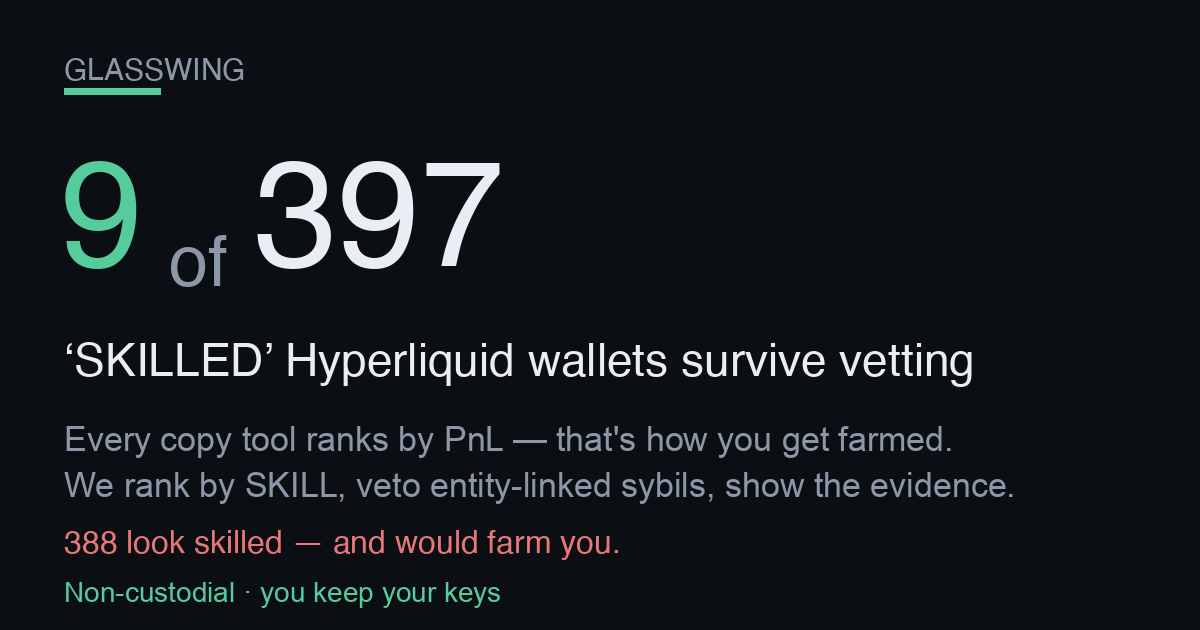
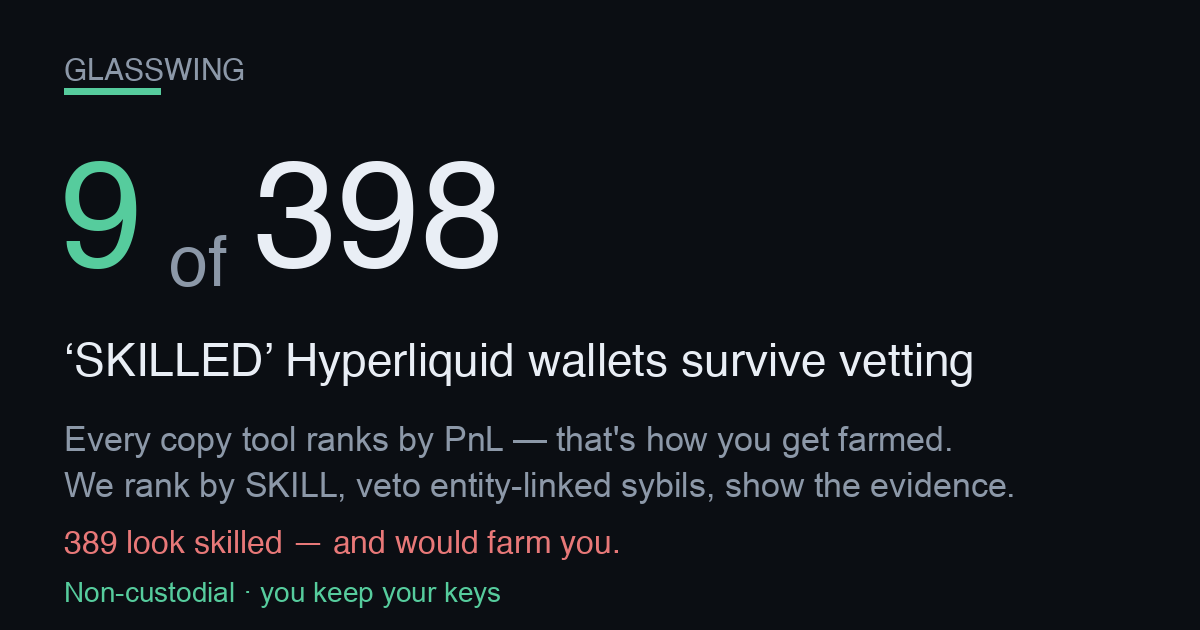
publish funnel 2026-09-14T06:58:19Z

Changed region(s): [[0.3392, 0.2413, 0.4317, 0.4524], [0.0617, 0.8444, 0.0925, 0.8746]]

diff --git a/screener.html b/screener.html
@@ -57,4 +57,4 @@ padding:11px 22px;font-size:15px;font-weight:800;border:1px solid var(--good)}
 footer{margin-top:34px;color:var(--muted);font-size:12px;line-height:1.6;
 border-top:1px solid var(--line);padding-top:16px}
 footer b{color:var(--ink)}
-</style></head><body><div class="wrap"><div class="nav"><a href="./index.html">&larr; Glasswing home</a><span class="sep">|</span><span>Edge Screener</span><span class="sep">|</span><a href="./dex.html">Copy a vetted leader</a></div><div class="hero"><h1>Hyperliquid Edge Screener</h1><div class="sub">Where&rsquo;s the carry, where a maker earns, and what&rsquo;s moving on Hyperliquid &mdash; live, computed from the public API. Bookmark it. Every number below is real and timestamped.</div><div class="stamp">Data as of <b>2026-09-14T00:52:29Z</b> &middot; rendered 2026-09-14T00:52:29Z &middot; 178 perps &middot; 104 HIP-3 (xyz) markets scanned</div></div><h2>Top funding &mdash; the carry table <span class="hint">perps ranked by annualized funding. Positive = longs pay shorts (a delta-neutral short earns it).</span></h2><div class="tblwrap"><table><thead><tr><th>Coin</th><th>Funding / hr</th><th>Annualized</th><th>Who pays</th><th>Open interest</th><th>24h volume</th></tr></thead><tbody><tr><td class="coin">HEMI</td><td>-0.0470%</td><td class="neg">-411.4%</td><td><span class="tag shorts">shorts pay</span></td><td>$1.0M</td><td>$530K</td></tr><tr><td class="coin">ACE<span class="tag thin" title="Low liquidity/OI &mdash; ADL &amp; liquidation risk; funding can flip">&#9888; thin</span></td><td>-0.0216%</td><td class="neg">-189.7%</td><td><span class="tag shorts">shorts pay</span></td><td>$498K</td><td>$319K</td></tr><tr><td class="coin">SOPH</td><td>-0.0065%</td><td class="neg">-57.3%</td><td><span class="tag shorts">shorts pay</span></td><td>$622K</td><td>$313K</td></tr><tr><td class="coin">IOTA<span class="tag thin" title="Low liquidity/OI &mdash; ADL &amp; liquidation risk; funding can flip">&#9888; thin</span></td><td>-0.0059%</td><td class="neg">-51.7%</td><td><span class="tag shorts">shorts pay</span></td><td>$722K</td><td>$135K</td></tr><tr><td class="coin">POLYX<span class="tag thin" title="Low liquidity/OI &mdash; ADL &amp; liquidation risk; funding can flip">&#9888; thin</span></td><td>-0.0056%</td><td class="neg">-49.0%</td><td><span class="tag shorts">shorts pay</span></td><td>$190K</td><td>$984K</td></tr><tr><td class="coin">2Z<span class="tag thin" title="Low liquidity/OI &mdash; ADL &amp; liquidation risk; funding can flip">&#9888; thin</span></td><td>-0.0045%</td><td class="neg">-39.7%</td><td><span class="tag shorts">shorts pay</span></td><td>$1.1M</td><td>$117K</td></tr><tr><td class="coin">BLUR</td><td>-0.0033%</td><td class="neg">-28.7%</td><td><span class="tag shorts">shorts pay</span></td><td>$1.1M</td><td>$635K</td></tr><tr><td class="coin">IO<span class="tag thin" title="Low liquidity/OI &mdash; ADL &amp; liquidation risk; funding can flip">&#9888; thin</span></td><td>-0.0030%</td><td class="neg">-26.1%</td><td><span class="tag shorts">shorts pay</span></td><td>$751K</td><td>$139K</td></tr><tr><td class="coin">ADA</td><td>-0.0029%</td><td class="neg">-25.2%</td><td><span class="tag shorts">shorts pay</span></td><td>$32.8M</td><td>$4.2M</td></tr><tr><td class="coin">SKR</td><td>-0.0021%</td><td class="neg">-18.3%</td><td><span class="tag shorts">shorts pay</span></td><td>$2.0M</td><td>$905K</td></tr><tr><td class="coin">STX</td><td>-0.0021%</td><td class="neg">-18.2%</td><td><span class="tag shorts">shorts pay</span></td><td>$1.2M</td><td>$328K</td></tr><tr><td class="coin">S<span class="tag thin" title="Low liquidity/OI &mdash; ADL &amp; liquidation risk; funding can flip">&#9888; thin</span></td><td>-0.0020%</td><td class="neg">-17.8%</td><td><span class="tag shorts">shorts pay</span></td><td>$628K</td><td>$193K</td></tr></tbody></table></div><h2>Widest HIP-3 spreads &mdash; where a maker earns <span class="hint">xyz: markets by impact-price spread vs the ~0.6bps round-trip fee. A resting limit order captures the gap.</span></h2><div class="tblwrap"><table><thead><tr><th>Market</th><th>Spread</th><th>vs 0.6bps fee</th><th>Mid</th><th>24h volume</th></tr></thead><tbody><tr><td class="coin">xyz:GIGADEV<span class="tag gm">growth</span></td><td>180.0 bps</td><td class="pos">+179.4 bps</td><td>53.1345</td><td>$46K</td></tr><tr><td class="coin">xyz:BIRD<span class="tag gm">growth</span></td><td>178.5 bps</td><td class="pos">+177.9 bps</td><td>2.4581</td><td>$18K</td></tr><tr><td class="coin">xyz:SHEIN<span class="tag gm">growth</span></td><td>131.7 bps</td><td class="pos">+131.1 bps</td><td>5.0164</td><td>$241K</td></tr><tr><td class="coin">xyz:XBI<span class="tag gm">growth</span></td><td>98.7 bps</td><td class="pos">+98.1 bps</td><td>155.8650</td><td>$94K</td></tr><tr><td class="coin">xyz:URNM<span class="tag gm">growth</span></td><td>95.4 bps</td><td class="pos">+94.8 bps</td><td>51.5210</td><td>$86K</td></tr><tr><td class="coin">xyz:NCLD<span class="tag gm">growth</span></td><td>83.9 bps</td><td class="pos">+83.3 bps</td><td>23.1375</td><td>$48K</td></tr><tr><td class="coin">xyz:ZM<span class="tag gm">growth</span></td><td>79.9 bps</td><td class="pos">+79.3 bps</td><td>95.6990</td><td>$40K</td></tr><tr><td class="coin">xyz:DKNG<span class="tag gm">growth</span></td><td>72.0 bps</td><td class="pos">+71.4 bps</td><td>24.4945</td><td>$62K</td></tr><tr><td class="coin">xyz:BMNR</td><td>62.4 bps</td><td class="pos">+61.8 bps</td><td>24.3420</td><td>$99K</td></tr><tr><td class="coin">xyz:RDDT<span class="tag gm">growth</span></td><td>59.2 bps</td><td class="pos">+58.6 bps</td><td>156.1300</td><td>$48K</td></tr><tr><td class="coin">xyz:NET<span class="tag gm">growth</span></td><td>57.3 bps</td><td class="pos">+56.7 bps</td><td>304.8800</td><td>$125K</td></tr><tr><td class="coin">xyz:PURRDAT</td><td>54.5 bps</td><td class="pos">+53.9 bps</td><td>11.2230</td><td>$648K</td></tr></tbody></table></div><h2>Momentum &amp; volume &mdash; what&rsquo;s moving <span class="hint">perps by 24h volume with the 24h price change (mark vs prior-day).</span></h2><div class="tblwrap"><table><thead><tr><th>Coin</th><th>24h volume</th><th>24h change</th><th>Mark</th></tr></thead><tbody><tr><td class="coin">BTC</td><td>$1.34B</td><td class="neg">-0.64%</td><td>76,751.00</td></tr><tr><td class="coin">ETH</td><td>$989.8M</td><td class="neg">-1.66%</td><td>2,483.10</td></tr><tr><td class="coin">ZEC</td><td>$292.5M</td><td class="neg">-6.08%</td><td>1,058.30</td></tr><tr><td class="coin">HYPE</td><td>$281.7M</td><td class="neg">-1.83%</td><td>77.7700</td></tr><tr><td class="coin">SOL</td><td>$125.7M</td><td class="neg">-2.03%</td><td>99.6111</td></tr><tr><td class="coin">XRP</td><td>$68.1M</td><td class="neg">-1.53%</td><td>1.3456</td></tr><tr><td class="coin">PUMP</td><td>$47.7M</td><td class="neg">-7.24%</td><td>0.003508</td></tr><tr><td class="coin">PONS</td><td>$28.6M</td><td class="neg">-14.19%</td><td>0.52353</td></tr><tr><td class="coin">LIT</td><td>$22.0M</td><td class="neg">-1.23%</td><td>4.1621</td></tr><tr><td class="coin">UNI</td><td>$19.7M</td><td class="neg">-3.60%</td><td>6.1939</td></tr><tr><td class="coin">NEAR</td><td>$19.4M</td><td class="neg">-2.79%</td><td>2.3062</td></tr><tr><td class="coin">VVV</td><td>$17.6M</td><td class="neg">-11.15%</td><td>21.5482</td></tr></tbody></table></div><div class="cta"><h2>These are the opportunities. Now copy the people who trade them.</h2><p class="lead">Spotting the carry and the spreads is the easy part &mdash; sizing, timing and risk are where most traders bleed. Copy the <b>skill-vetted</b> Hyperliquid leaders who actually trade these edges. Non-custodial: <b>you keep your keys and your funds</b> the entire time.</p><div class="row"><a class="btn" href="./index.html">See the vetted leaders &rarr;</a><a class="btn ghost" href="./dex.html">Start copying (non-custodial) &rarr;</a></div><div class="nc"><b>Non-custodial &amp; honest:</b> we never hold your keys or funds. Copying routes through a <b>0.01%</b> (1bp) on-chain builder fee &mdash; that is the only thing we ever charge, and it is the same fee shown on the copy page. Nothing on this screener is executed for you; it is information only.</div></div><footer><b>Not financial advice.</b> Funding rates, spreads and volumes are live snapshots that change every block; figures can be stale by the time you act. A high funding rate is <b>not free money</b> &mdash; the biggest rates sit on the thinnest, most crowded books (flagged &#9888; thin), where funding can flip against you and auto-deleveraging (ADL) or liquidation can close your position. &ldquo;Spread&rdquo; here is the impact-price spread (a conservative maker signal), not a guaranteed fill. HIP-3 markets are experimental. Do your own research and size responsibly. Glasswing is <b>non-custodial</b> &mdash; we never take custody of your keys or funds.</footer></div></body></html>
+</style></head><body><div class="wrap"><div class="nav"><a href="./index.html">&larr; Glasswing home</a><span class="sep">|</span><span>Edge Screener</span><span class="sep">|</span><a href="./dex.html">Copy a vetted leader</a></div><div class="hero"><h1>Hyperliquid Edge Screener</h1><div class="sub">Where&rsquo;s the carry, where a maker earns, and what&rsquo;s moving on Hyperliquid &mdash; live, computed from the public API. Bookmark it. Every number below is real and timestamped.</div><div class="stamp">Data as of <b>2026-09-14T06:56:42Z</b> &middot; rendered 2026-09-14T06:56:42Z &middot; 178 perps &middot; 104 HIP-3 (xyz) markets scanned</div></div><h2>Top funding &mdash; the carry table <span class="hint">perps ranked by annualized funding. Positive = longs pay shorts (a delta-neutral short earns it).</span></h2><div class="tblwrap"><table><thead><tr><th>Coin</th><th>Funding / hr</th><th>Annualized</th><th>Who pays</th><th>Open interest</th><th>24h volume</th></tr></thead><tbody><tr><td class="coin">POLYX<span class="tag thin" title="Low liquidity/OI &mdash; ADL &amp; liquidation risk; funding can flip">&#9888; thin</span></td><td>-0.0373%</td><td class="neg">-326.6%</td><td><span class="tag shorts">shorts pay</span></td><td>$195K</td><td>$956K</td></tr><tr><td class="coin">BLUR</td><td>-0.0168%</td><td class="neg">-147.4%</td><td><span class="tag shorts">shorts pay</span></td><td>$1.2M</td><td>$598K</td></tr><tr><td class="coin">IOTA<span class="tag thin" title="Low liquidity/OI &mdash; ADL &amp; liquidation risk; funding can flip">&#9888; thin</span></td><td>-0.0106%</td><td class="neg">-93.2%</td><td><span class="tag shorts">shorts pay</span></td><td>$755K</td><td>$148K</td></tr><tr><td class="coin">HEMI</td><td>-0.0082%</td><td class="neg">-71.6%</td><td><span class="tag shorts">shorts pay</span></td><td>$1.0M</td><td>$459K</td></tr><tr><td class="coin">ALT</td><td>-0.0058%</td><td class="neg">-51.2%</td><td><span class="tag shorts">shorts pay</span></td><td>$967K</td><td>$566K</td></tr><tr><td class="coin">BSV</td><td>+0.0057%</td><td class="pos">+49.6%</td><td><span class="tag longs">longs pay</span></td><td>$674K</td><td>$339K</td></tr><tr><td class="coin">SAND<span class="tag thin" title="Low liquidity/OI &mdash; ADL &amp; liquidation risk; funding can flip">&#9888; thin</span></td><td>-0.0054%</td><td class="neg">-47.8%</td><td><span class="tag shorts">shorts pay</span></td><td>$502K</td><td>$181K</td></tr><tr><td class="coin">AZTEC<span class="tag thin" title="Low liquidity/OI &mdash; ADL &amp; liquidation risk; funding can flip">&#9888; thin</span></td><td>+0.0051%</td><td class="pos">+44.3%</td><td><span class="tag longs">longs pay</span></td><td>$635K</td><td>$98K</td></tr><tr><td class="coin">DYM<span class="tag thin" title="Low liquidity/OI &mdash; ADL &amp; liquidation risk; funding can flip">&#9888; thin</span></td><td>-0.0048%</td><td class="neg">-42.3%</td><td><span class="tag shorts">shorts pay</span></td><td>$270K</td><td>$140K</td></tr><tr><td class="coin">APEX<span class="tag thin" title="Low liquidity/OI &mdash; ADL &amp; liquidation risk; funding can flip">&#9888; thin</span></td><td>+0.0042%</td><td class="pos">+37.1%</td><td><span class="tag longs">longs pay</span></td><td>$2.7M</td><td>$138K</td></tr><tr><td class="coin">STX</td><td>-0.0040%</td><td class="neg">-35.0%</td><td><span class="tag shorts">shorts pay</span></td><td>$1.2M</td><td>$277K</td></tr><tr><td class="coin">XMR</td><td>-0.0034%</td><td class="neg">-30.0%</td><td><span class="tag shorts">shorts pay</span></td><td>$77.3M</td><td>$13.9M</td></tr></tbody></table></div><h2>Widest HIP-3 spreads &mdash; where a maker earns <span class="hint">xyz: markets by impact-price spread vs the ~0.6bps round-trip fee. A resting limit order captures the gap.</span></h2><div class="tblwrap"><table><thead><tr><th>Market</th><th>Spread</th><th>vs 0.6bps fee</th><th>Mid</th><th>24h volume</th></tr></thead><tbody><tr><td class="coin">xyz:BIRD<span class="tag gm">growth</span></td><td>150.0 bps</td><td class="pos">+149.4 bps</td><td>2.4670</td><td>$21K</td></tr><tr><td class="coin">xyz:NCLD<span class="tag gm">growth</span></td><td>96.3 bps</td><td class="pos">+95.7 bps</td><td>22.9590</td><td>$53K</td></tr><tr><td class="coin">xyz:SHEIN<span class="tag gm">growth</span></td><td>74.7 bps</td><td class="pos">+74.1 bps</td><td>4.7180</td><td>$485K</td></tr><tr><td class="coin">xyz:PURRDAT</td><td>72.9 bps</td><td class="pos">+72.3 bps</td><td>11.5700</td><td>$785K</td></tr><tr><td class="coin">xyz:NET<span class="tag gm">growth</span></td><td>68.7 bps</td><td class="pos">+68.1 bps</td><td>306.4900</td><td>$117K</td></tr><tr><td class="coin">xyz:XBI<span class="tag gm">growth</span></td><td>65.5 bps</td><td class="pos">+64.9 bps</td><td>156.8450</td><td>$82K</td></tr><tr><td class="coin">xyz:URNM<span class="tag gm">growth</span></td><td>63.7 bps</td><td class="pos">+63.1 bps</td><td>51.7145</td><td>$114K</td></tr><tr><td class="coin">xyz:BOT<span class="tag gm">growth</span></td><td>61.5 bps</td><td class="pos">+60.9 bps</td><td>26.3705</td><td>$456K</td></tr><tr><td class="coin">xyz:DKNG<span class="tag gm">growth</span></td><td>60.7 bps</td><td class="pos">+60.1 bps</td><td>24.6025</td><td>$62K</td></tr><tr><td class="coin">xyz:RDDT<span class="tag gm">growth</span></td><td>49.1 bps</td><td class="pos">+48.5 bps</td><td>156.9000</td><td>$56K</td></tr><tr><td class="coin">xyz:LYTE<span class="tag gm">growth</span></td><td>46.8 bps</td><td class="pos">+46.2 bps</td><td>24.2885</td><td>$175K</td></tr><tr><td class="coin">xyz:EBAY<span class="tag gm">growth</span></td><td>44.4 bps</td><td class="pos">+43.8 bps</td><td>107.4100</td><td>$27K</td></tr></tbody></table></div><h2>Momentum &amp; volume &mdash; what&rsquo;s moving <span class="hint">perps by 24h volume with the 24h price change (mark vs prior-day).</span></h2><div class="tblwrap"><table><thead><tr><th>Coin</th><th>24h volume</th><th>24h change</th><th>Mark</th></tr></thead><tbody><tr><td class="coin">BTC</td><td>$1.72B</td><td class="pos">+0.64%</td><td>77,571.20</td></tr><tr><td class="coin">ETH</td><td>$1.23B</td><td class="pos">+0.11%</td><td>2,514.80</td></tr><tr><td class="coin">ZEC</td><td>$359.3M</td><td class="neg">-0.02%</td><td>1,135.40</td></tr><tr><td class="coin">HYPE</td><td>$354.9M</td><td class="pos">+1.29%</td><td>79.7450</td></tr><tr><td class="coin">SOL</td><td>$144.1M</td><td class="pos">+0.30%</td><td>101.5000</td></tr><tr><td class="coin">XRP</td><td>$93.5M</td><td class="pos">+2.01%</td><td>1.3870</td></tr><tr><td class="coin">PUMP</td><td>$49.6M</td><td class="neg">-3.31%</td><td>0.003624</td></tr><tr><td class="coin">LIT</td><td>$47.8M</td><td class="pos">+10.29%</td><td>4.5875</td></tr><tr><td class="coin">PONS</td><td>$43.2M</td><td class="neg">-6.75%</td><td>0.53464</td></tr><tr><td class="coin">NEAR</td><td>$23.9M</td><td class="pos">+5.29%</td><td>2.4329</td></tr><tr><td class="coin">UNI</td><td>$22.2M</td><td class="neg">-0.51%</td><td>6.3078</td></tr><tr><td class="coin">VVV</td><td>$19.2M</td><td class="neg">-3.25%</td><td>22.6920</td></tr></tbody></table></div><div class="cta"><h2>These are the opportunities. Now copy the people who trade them.</h2><p class="lead">Spotting the carry and the spreads is the easy part &mdash; sizing, timing and risk are where most traders bleed. Copy the <b>skill-vetted</b> Hyperliquid leaders who actually trade these edges. Non-custodial: <b>you keep your keys and your funds</b> the entire time.</p><div class="row"><a class="btn" href="./index.html">See the vetted leaders &rarr;</a><a class="btn ghost" href="./dex.html">Start copying (non-custodial) &rarr;</a></div><div class="nc"><b>Non-custodial &amp; honest:</b> we never hold your keys or funds. Copying routes through a <b>0.01%</b> (1bp) on-chain builder fee &mdash; that is the only thing we ever charge, and it is the same fee shown on the copy page. Nothing on this screener is executed for you; it is information only.</div></div><footer><b>Not financial advice.</b> Funding rates, spreads and volumes are live snapshots that change every block; figures can be stale by the time you act. A high funding rate is <b>not free money</b> &mdash; the biggest rates sit on the thinnest, most crowded books (flagged &#9888; thin), where funding can flip against you and auto-deleveraging (ADL) or liquidation can close your position. &ldquo;Spread&rdquo; here is the impact-price spread (a conservative maker signal), not a guaranteed fill. HIP-3 markets are experimental. Do your own research and size responsibly. Glasswing is <b>non-custodial</b> &mdash; we never take custody of your keys or funds.</footer></div></body></html>

diff --git a/index.html b/index.html
@@ -3,8 +3,8 @@
 <head>
 <meta charset="utf-8">
 <meta name="viewport" content="width=device-width, initial-scale=1">
-<title>9 of 397 SKILLED Hyperliquid wallets survive vetting</title>
-<meta name="description" content="9 of 397 leaderboard-SKILLED Hyperliquid wallets survive vetting. Copy only the survivors, non-custodial — you keep your keys and funds.">
+<title>9 of 398 SKILLED Hyperliquid wallets survive vetting</title>
+<meta name="description" content="9 of 398 leaderboard-SKILLED Hyperliquid wallets survive vetting. Copy only the survivors, non-custodial — you keep your keys and funds.">
 <link rel="canonical" href="https://dynobit.github.io/glasswing/">
 <meta name="robots" content="index,follow">
 <meta name="theme-color" content="#0b0e13">
@@ -14,14 +14,14 @@
      head, not this. og:url is the canonical Pages home so every share resolves here. -->
 <meta property="og:type" content="website">
 <meta property="og:site_name" content="Glasswing">
-<meta property="og:title" content="9 of 397 SKILLED Hyperliquid wallets survive vetting">
+<meta property="og:title" content="9 of 398 SKILLED Hyperliquid wallets survive vetting">
 <meta property="og:description" content="Every copy tool ranks leaders by PnL — which is how you get farmed. This ranks by SKILL, then vetoes entity-linked sybils, and shows the evidence for every reject. Non-custodial: you keep your keys.">
 <meta property="og:url" content="https://dynobit.github.io/glasswing/">
 <meta property="og:image" content="https://dynobit.github.io/glasswing/og-card.png">
 <meta property="og:image:width" content="1200">
 <meta property="og:image:height" content="630">
 <meta name="twitter:card" content="summary_large_image">
-<meta name="twitter:title" content="9 of 397 SKILLED Hyperliquid wallets survive vetting">
+<meta name="twitter:title" content="9 of 398 SKILLED Hyperliquid wallets survive vetting">
 <meta name="twitter:description" content="Skill-ranked (not PnL-ranked) HL copy-leaders, entity-linked sybils vetoed with evidence. Non-custodial.">
 <meta name="twitter:image" content="https://dynobit.github.io/glasswing/og-card.png">
 <style>
@@ -135,18 +135,18 @@ footer .nc{color:var(--good);font-weight:600}
 
   <!-- 1. HERO — the shareable hook (screenshot-worthy) -->
   <div class="hero">
-    <h1><span class="big">9 of 397</span> &lsquo;SKILLED&rsquo;
+    <h1><span class="big">9 of 398</span> &lsquo;SKILLED&rsquo;
     Hyperliquid wallets survive vetting</h1>
-    <div class="sub">The other <span class="trap">388</span> look skilled on a
+    <div class="sub">The other <span class="trap">389</span> look skilled on a
     raw copy leaderboard but would farm you &mdash; here are the
-    <span class="trap">388</span> that would. Entity-linked sybils,
+    <span class="trap">389</span> that would. Entity-linked sybils,
     wash-traded track records, or simply unscreened. 2.3% survive.
-    Universe: 3731 scored wallets.</div>
+    Universe: 3749 scored wallets.</div>
   </div>
 
   <!-- 2. THE WEDGE — the marketing (why us, not any other copy tool) -->
   <div class="wedge"><span class="them">Every other copy tool ranks all
-    397 by PnL and calls it a leaderboard.</span> We are the only one that
+    398 by PnL and calls it a leaderboard.</span> We are the only one that
     <b>flags the entity-linked and farming wallets with on-chain evidence</b> &mdash;
     transfer-graph linkage between wallets and arXiv memecoin farm-features &mdash;
     and shows you only the 9 that survive. A high PnL is exactly what a
@@ -268,7 +268,7 @@ footer .nc{color:var(--good);font-weight:600}
   <footer>
     <div class="nc">Non-custodial: we never hold your keys or funds. No server, no backend. Your browser talks only to Hyperliquid&#x27;s public API.</div>
     <div>Advisory. Skill = sign-randomization null vs luck. Entity veto = public transfer-graph linkage. Farm screen = arXiv:2601.08641 features (memecoin thresholds, HL-uncalibrated). Follower-realizable PnL is NOT yet proven — a PRE-COMMITTED forward test is in progress (0/2 windows, earliest 2026-08-13); the copyability claim publishes only when the pre-registered windows close, so it cannot be discovery-mined. Exit-alpha shown is advisory. Not financial advice.</div>
-    <div class="stamp">Generated at 2026-09-14T00:51:40Z &middot; single-file funnel,
+    <div class="stamp">Generated at 2026-09-14T06:56:11Z &middot; single-file funnel,
     no live authority. In-browser order signing is IMPLEMENTED (real secp256k1 +
     keccak + msgpack EIP-712 from a pinned CDN) but UNVALIDATED against Hyperliquid:
     mainnet is blocked until a testnet order is proven accepted.</div>

diff --git a/track.html b/track.html
@@ -78,19 +78,19 @@ font-weight:600;font-size:14px}
 
   <h2>Performance <span style="color:var(--muted);font-weight:400;font-size:13px">
   &mdash; honest stage, no annualization</span></h2>
-  <table><tbody><tr><td class="k">Days live (our formal record)</td><td class="v">57</td></tr><tr><td class="k">Maturity</td><td class="v">BUILDING</td></tr><tr><td class="k">Current real strategy income / day</td><td class="v">$0.0611</td></tr><tr><td class="k">Cumulative net income (if attributed)</td><td class="v">$37.8603</td></tr><tr><td class="k">Annualized APR</td><td class="v">shown per-day above</td></tr></tbody></table>
+  <table><tbody><tr><td class="k">Days live (our formal record)</td><td class="v">57</td></tr><tr><td class="k">Maturity</td><td class="v">BUILDING</td></tr><tr><td class="k">Current real strategy income / day</td><td class="v">$0.0591</td></tr><tr><td class="k">Cumulative net income (if attributed)</td><td class="v">$37.8603</td></tr><tr><td class="k">Annualized APR</td><td class="v">shown per-day above</td></tr></tbody></table>
 
   <h2>Strategy arms <span style="color:var(--muted);font-weight:400;font-size:13px">
   &mdash; internal marks, cross-checkable against chain equity</span></h2>
-  <table><thead><tr><th>Arm</th><th>Status</th><th>Real / day</th><th>Note</th></tr></thead><tbody><tr><td class="v">carry</td><td><span class="badge off">—</span></td><td class="v">$0.0611</td><td class="k"></td></tr><tr><td class="v">copy</td><td><span class="badge live">live</span></td><td class="v">$0.0000</td><td class="k"></td></tr><tr><td class="v">builder</td><td><span class="badge off">—</span></td><td class="v">$0.0000</td><td class="k">proven live; $0 until distributed (∝ users&#x27; volume)</td></tr></tbody></table>
+  <table><thead><tr><th>Arm</th><th>Status</th><th>Real / day</th><th>Note</th></tr></thead><tbody><tr><td class="v">carry</td><td><span class="badge off">—</span></td><td class="v">$0.0591</td><td class="k"></td></tr><tr><td class="v">copy</td><td><span class="badge live">live</span></td><td class="v">$0.0000</td><td class="k"></td></tr><tr><td class="v">builder</td><td><span class="badge off">—</span></td><td class="v">$0.0000</td><td class="k">proven live; $0 until distributed (∝ users&#x27; volume)</td></tr></tbody></table>
 
   <h2>Reproduce it</h2>
   <div class="verify"><h3>Verify this yourself</h3><p>These are PUBLIC calls. Run them yourself against the address below and you will re-derive every on-chain figure on this page. equity_usd = perp accountValue + vault equity + spot USDC. Endpoint: https://api.hyperliquid.xyz/info</p><div class="cn">clearinghouseState &rarr; marginSummary.accountValue (perp value), withdrawable, marginSummary.totalMarginUsed</div><pre>curl -s -X POST https://api.hyperliquid.xyz/info -H &#x27;Content-Type: application/json&#x27; -d &#x27;{&quot;type&quot;: &quot;clearinghouseState&quot;, &quot;user&quot;: &quot;0xbe6C1b09662BbE52CC93279D103Feb27985DdBc1&quot;}&#x27;</pre><div class="cn">userVaultEquities &rarr; sum of each entry&#x27;s equity (our vault deposits)</div><pre>curl -s -X POST https://api.hyperliquid.xyz/info -H &#x27;Content-Type: application/json&#x27; -d &#x27;{&quot;type&quot;: &quot;userVaultEquities&quot;, &quot;user&quot;: &quot;0xbe6C1b09662BbE52CC93279D103Feb27985DdBc1&quot;}&#x27;</pre><div class="cn">spotClearinghouseState &rarr; balances[] where coin==USDC -&gt; total (spot USDC)</div><pre>curl -s -X POST https://api.hyperliquid.xyz/info -H &#x27;Content-Type: application/json&#x27; -d &#x27;{&quot;type&quot;: &quot;spotClearinghouseState&quot;, &quot;user&quot;: &quot;0xbe6C1b09662BbE52CC93279D103Feb27985DdBc1&quot;}&#x27;</pre></div>
 
   <footer>
     <div>Self-verifying: every on-chain figure is reproducible by querying Hyperliquid&#x27;s public info API for the stated address. Internal daily marks are cross-checkable against on-chain equity. EARLY-STAGE record — not a mature track record, not an APR promise, not financial advice. Past performance != future results.</div>
-    <div class="stamp">Generated at 2026-09-14T00:51:15Z &middot; internal marks
-    mtime 2026-09-13T19:38:15Z &middot; static receipt, no live
+    <div class="stamp">Generated at 2026-09-14T06:55:43Z &middot; internal marks
+    mtime 2026-09-14T01:38:24Z &middot; static receipt, no live
     authority — this page never trades or arms.</div>
   </footer>
 </div>

diff --git a/dex.html b/dex.html
@@ -112,8 +112,8 @@ footer .nc{color:var(--good);font-weight:600}
     funds and your keys the whole time. Two signatures in your own wallet, an
     ephemeral in-browser agent key that can trade but never withdraw, and a
     client-side loop that mirrors only the
-    <b>9 of 397</b> vetted survivors
-    (universe: 3731 scored wallets). No server, no backend.</div>
+    <b>9 of 398</b> vetted survivors
+    (universe: 3749 scored wallets). No server, no backend.</div>
     <div class="tag">static bundle &middot; IPFS-publishable &middot; revenue accrues on-chain</div>
   </div>
 
@@ -217,7 +217,7 @@ footer .nc{color:var(--good);font-weight:600}
   <footer>
     <div class="nc">Pure DEX, self-custodial. No server, no backend, no key we ever hold. Your browser talks only to Hyperliquid&#x27;s public API.</div>
     <div>Advisory. Skill = sign-randomization null vs luck. Entity veto = public transfer-graph linkage. Farm screen = arXiv:2601.08641 features (memecoin thresholds, HL-uncalibrated). Follower-realizable PnL is NOT yet proven — a PRE-COMMITTED forward test is in progress (0/2 windows, earliest 2026-08-13); the copyability claim publishes only when the pre-registered windows close, so it cannot be discovery-mined. Exit-alpha shown is advisory. Not financial advice.</div>
-    <div class="stamp">Generated at 2026-09-14T00:51:40Z &middot; static,
+    <div class="stamp">Generated at 2026-09-14T06:56:11Z &middot; static,
     self-custodial surface, no live authority. In-browser order signing is
     IMPLEMENTED (real secp256k1 + keccak + msgpack EIP-712 from a pinned CDN) but
     UNVALIDATED against Hyperliquid: mainnet is blocked until a testnet order is
